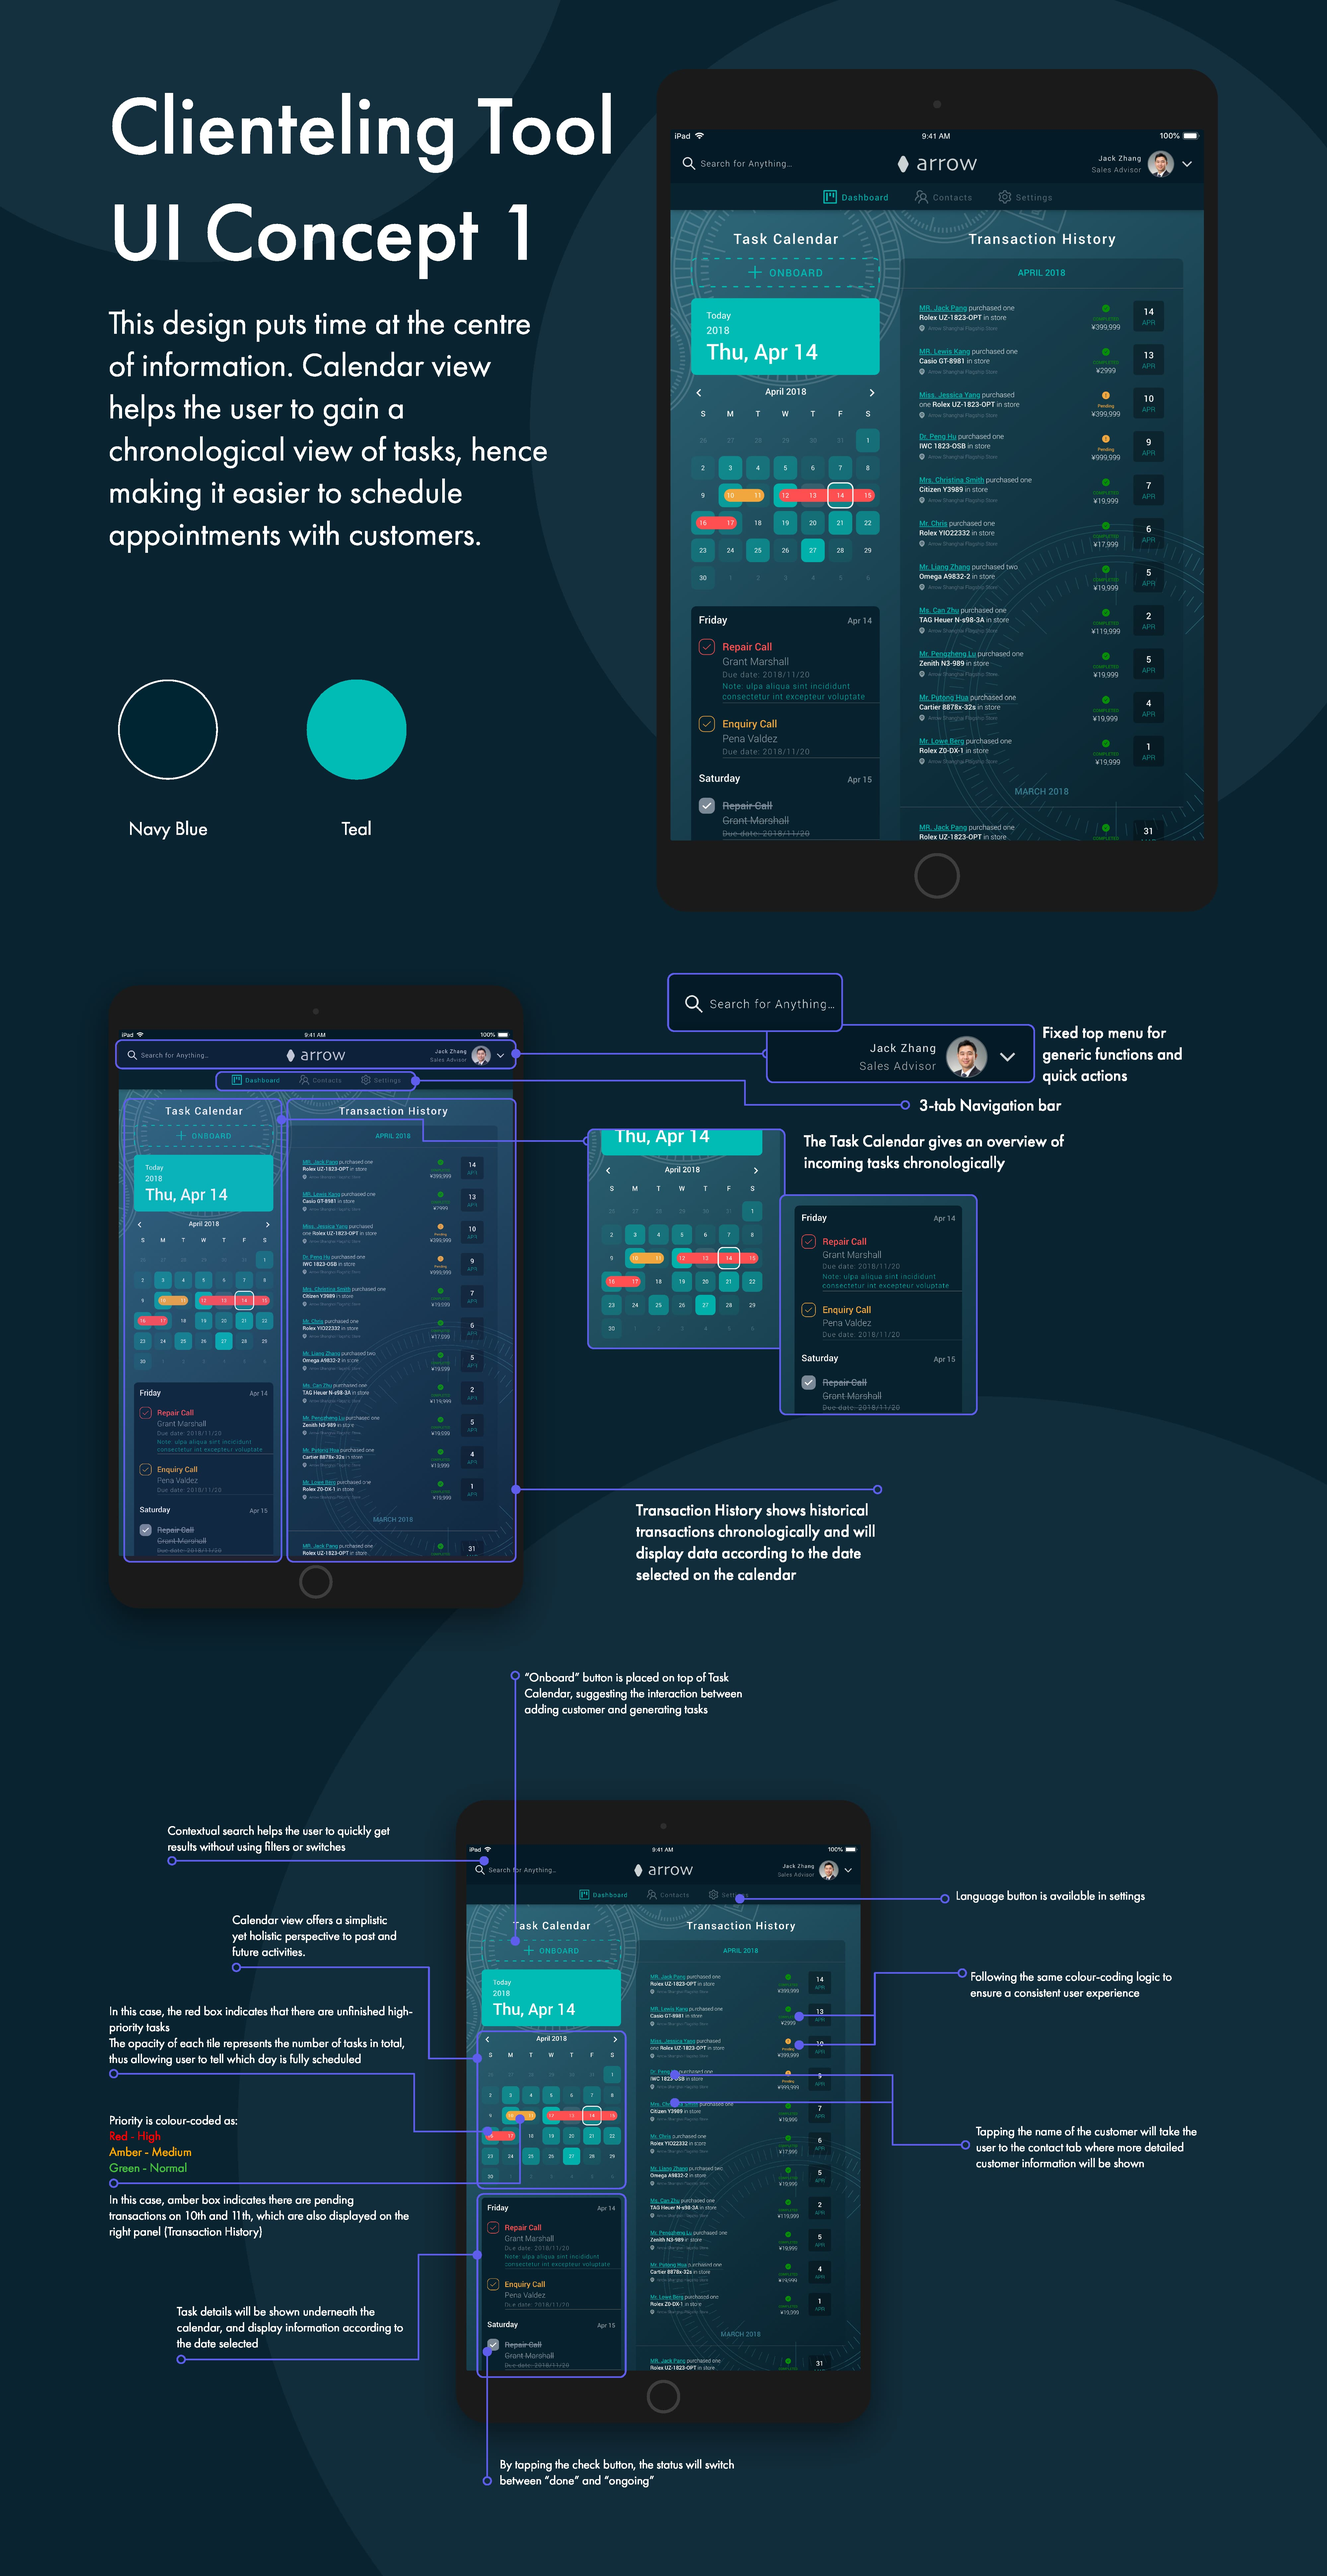
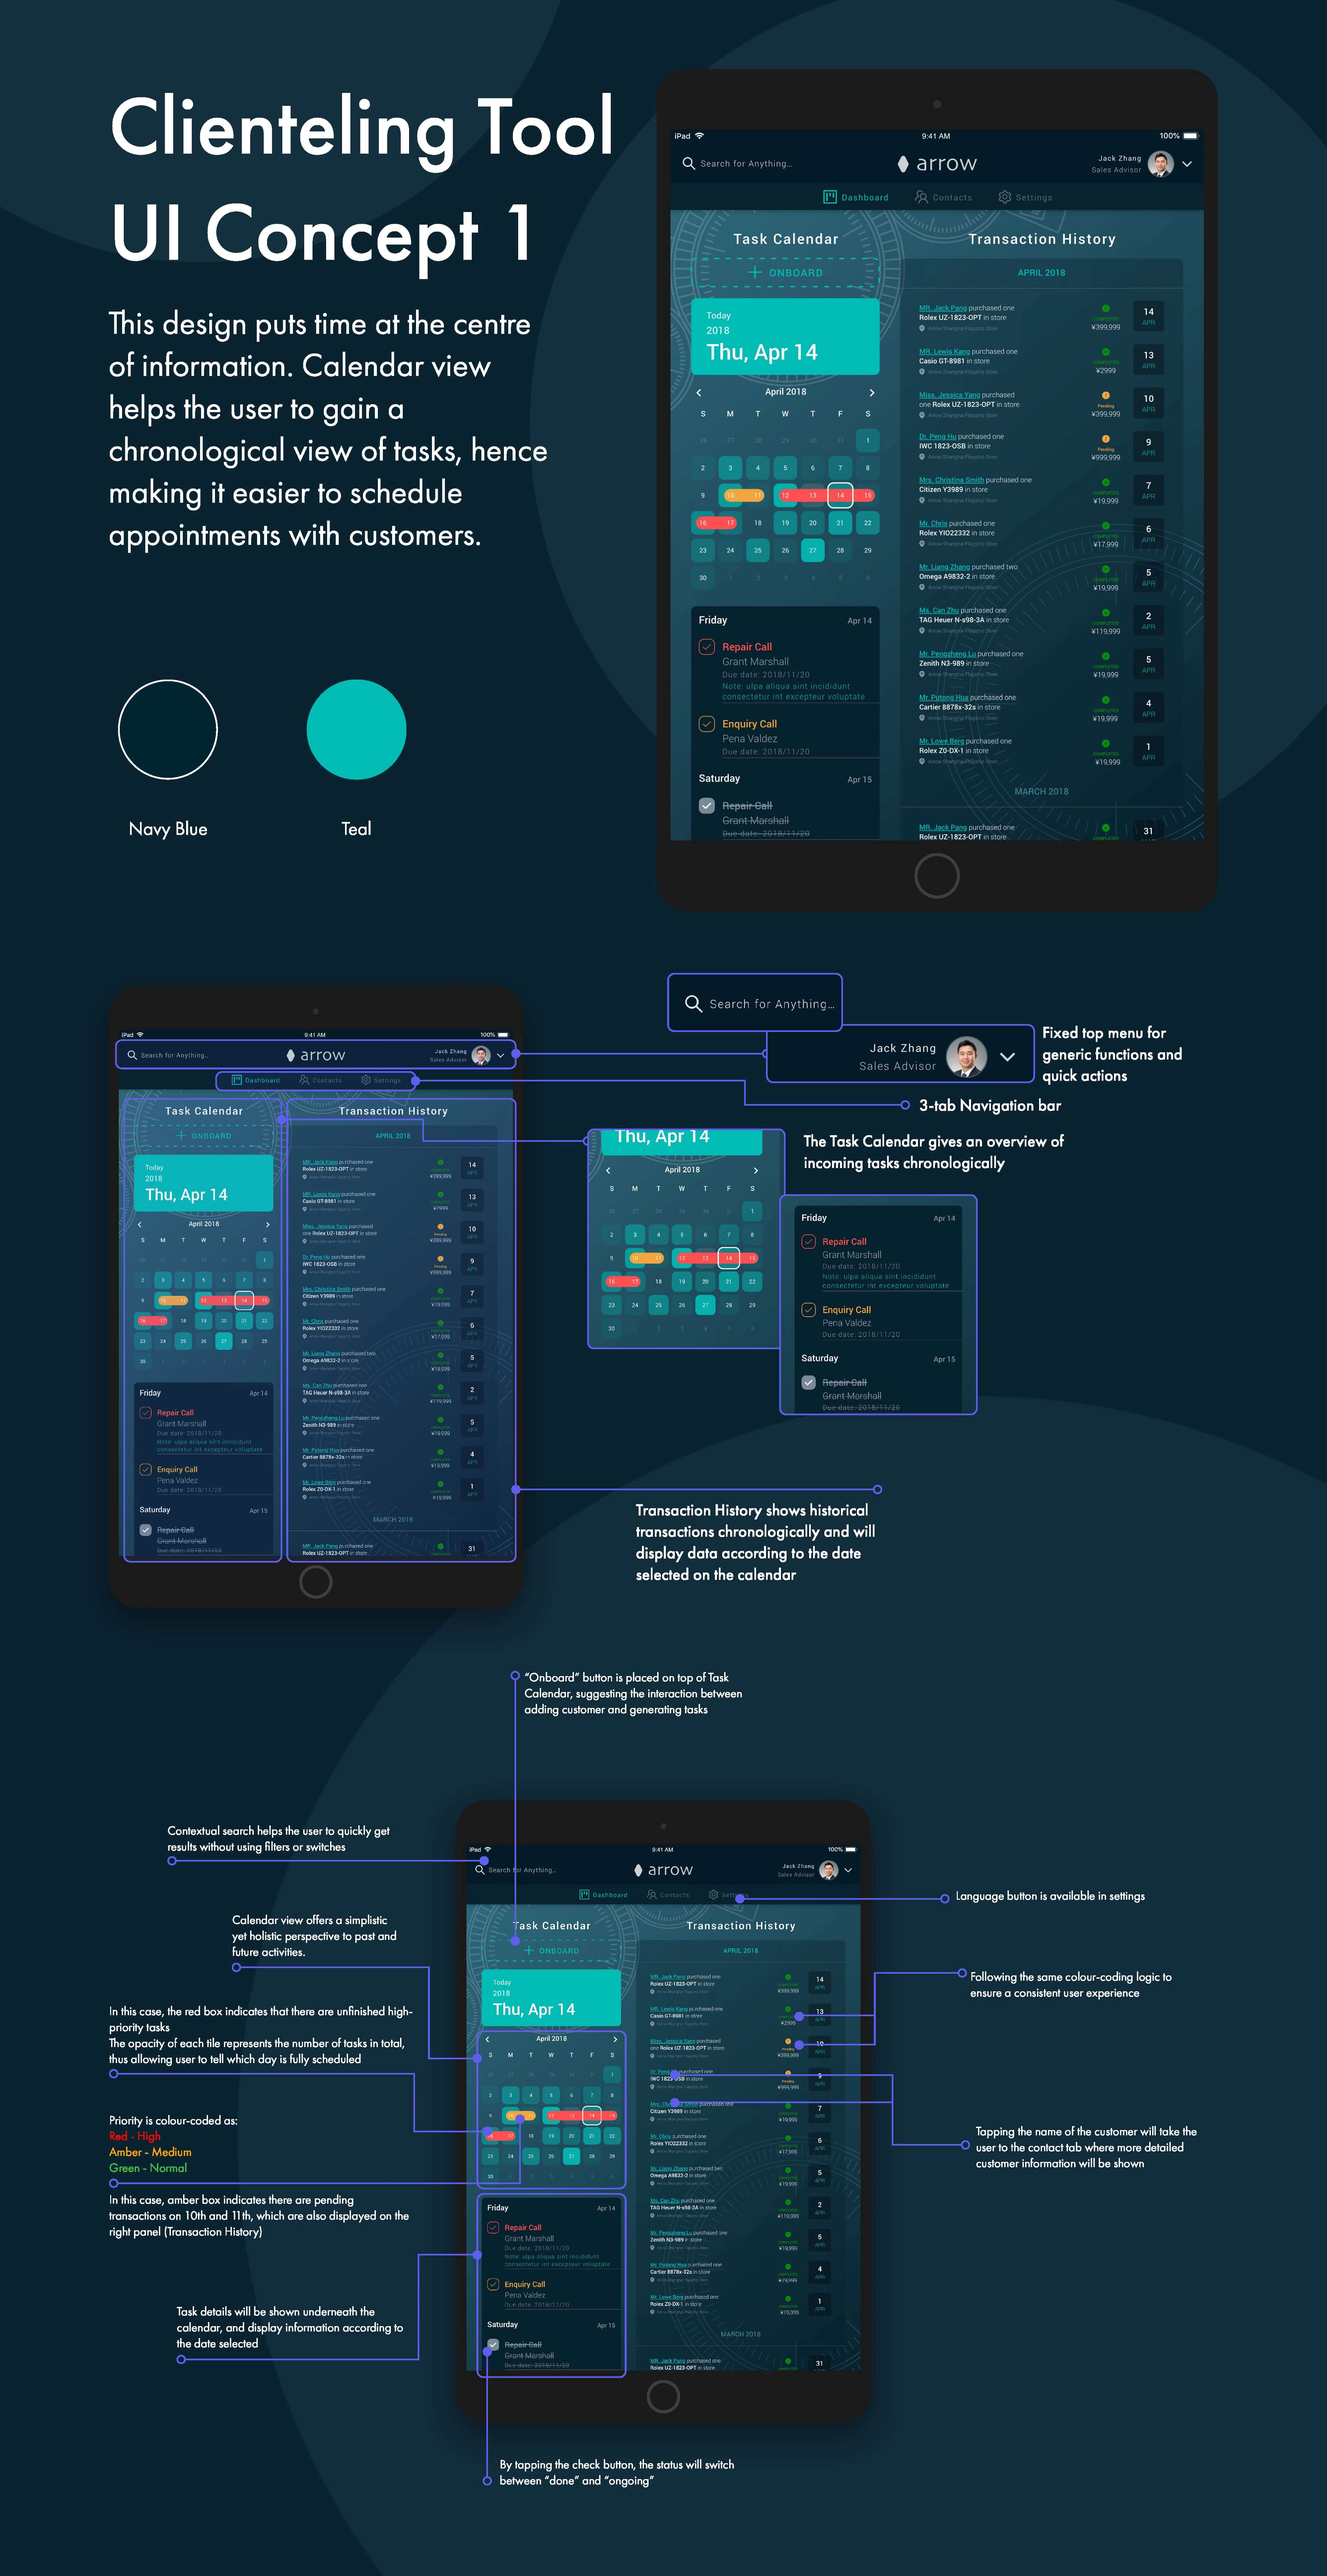
commpressed images

diff --git a/_posts/2018-06-15-mcon.md b/_posts/2018-06-15-mcon.md
@@ -1,7 +1,7 @@
 ---
 layout: post
 title: UI Design of a Clientelling Tool
-cover: mcon-cover.png
+cover: mcon-cover.jpg
 date: 2018-06-15 00:00:00
 categories: posts
 ---
@@ -57,11 +57,11 @@ The findings from my user study can be summarised into the following:
 
 ## Mockup
 
-![mockup1]({{site.baseurl}}/assets/mcon/preview-route-1.png){:class="img-responsive"}
+![mockup1]({{site.baseurl}}/assets/mcon/preview route 1.jpg){:class="img-responsive"}
 
-![mockup2]({{site.baseurl}}/assets/mcon/preview route 2.png){:class="img-responsive"}
+![mockup2]({{site.baseurl}}/assets/mcon/preview route 2.jpg){:class="img-responsive"}
 
-![mockup3]({{site.baseurl}}/assets/mcon/preview route 3.png){:class="img-responsive"}
+![mockup3]({{site.baseurl}}/assets/mcon/preview route 3.jpg){:class="img-responsive"}
 
 ## Interaction  
 
